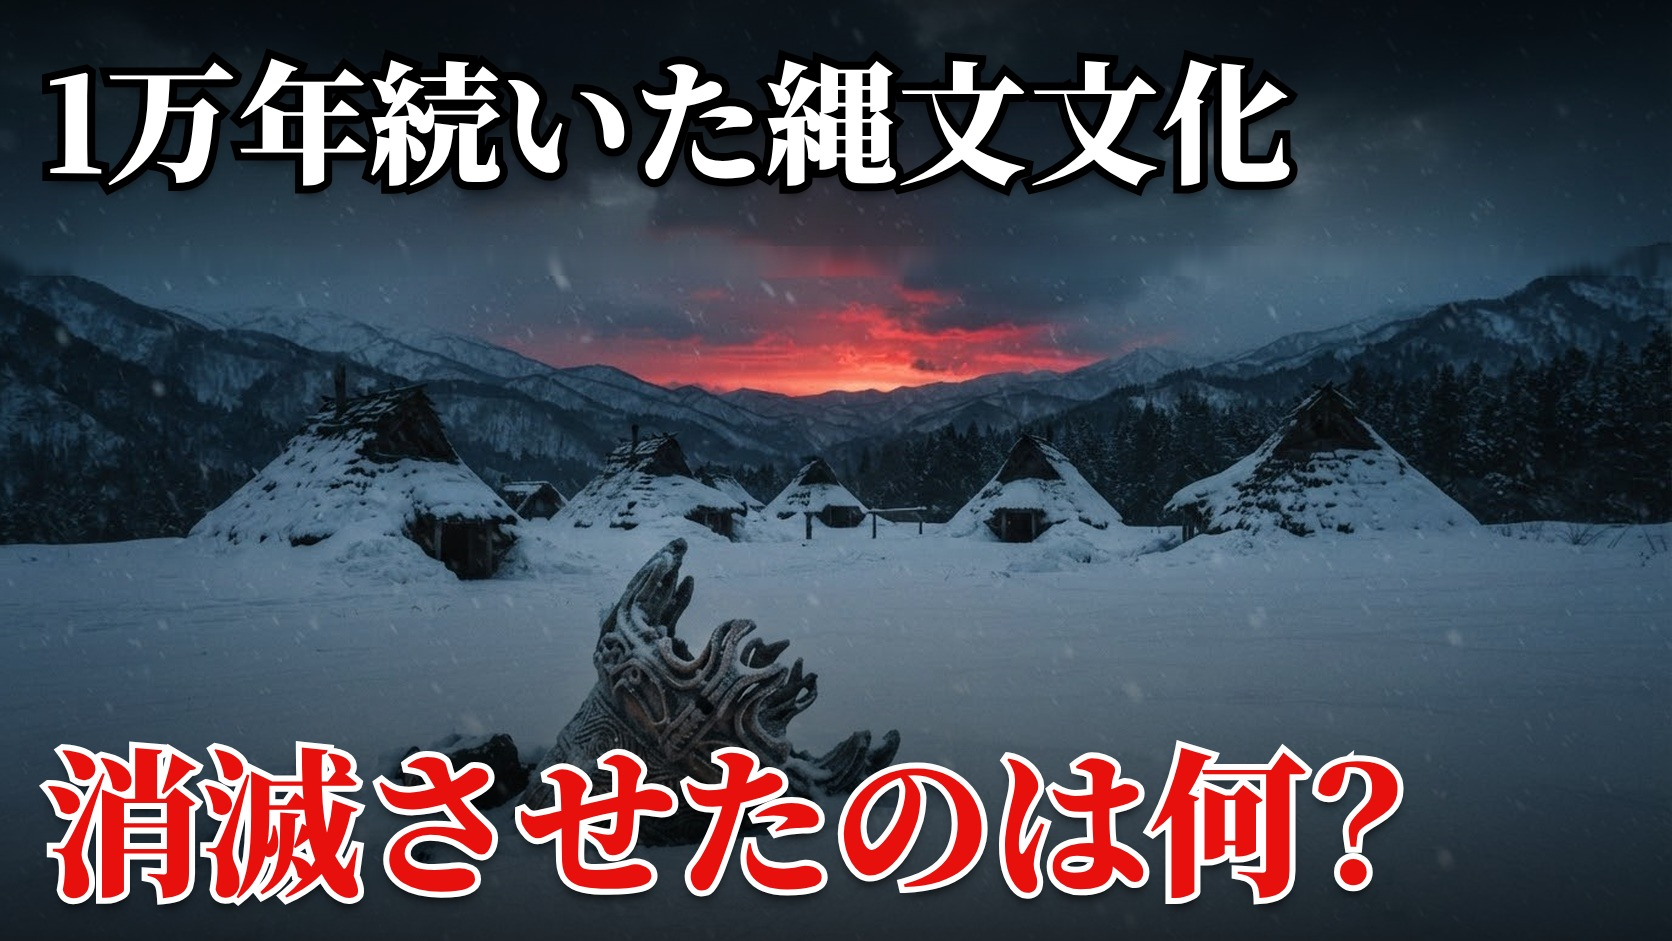
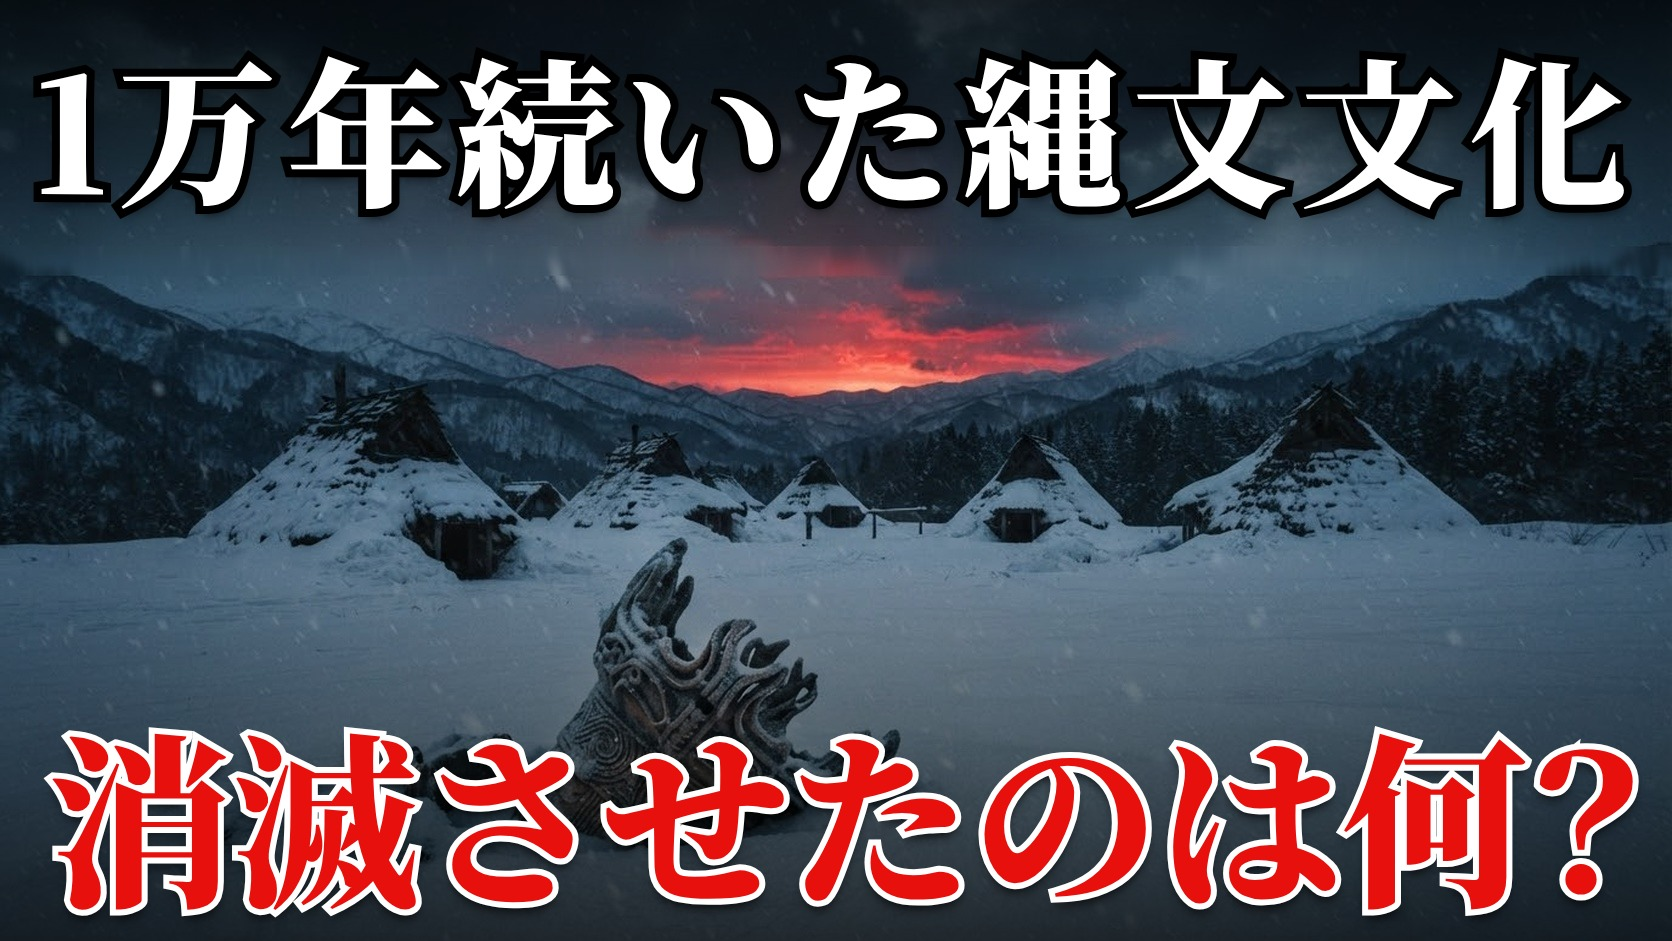
縄文人: サムネの文字を左右いっぱい／中央揃えにし、下段を上段より大きく
Claude-Session: https://claude.ai/code/session_01BYpZQXYNUwHTnyuBiz7NfV

Changed region(s): [[0.0311, 0.7705, 0.9952, 0.9862], [0.0, 0.0308, 0.9952, 0.2465]]

diff --git a/habi-jomon/サムネ/jgen.py b/habi-jomon/サムネ/jgen.py
@@ -1,28 +1,57 @@
+# 縄文サムネ：下段を左右いっぱい、上段は下段より少し小さく（広げられる範囲で字間を広げ、無理なら中央）
 HEAD='''<html><head><style>
 @font-face{font-family:N;src:url(NotoSerifJP-Black.ttf)}
 @font-face{font-family:G;src:url(NotoSansJP-Black.ttf)}
 body{margin:0;width:1672px;height:941px;position:relative;overflow:hidden;background:#000}
 .bg{position:absolute;inset:0;background:url(BG) center/cover}
 .top{position:absolute;left:0;right:0;top:0;height:300px;background:linear-gradient(rgba(0,0,0,.65),rgba(0,0,0,0))}
-.bot{position:absolute;left:0;right:0;bottom:0;height:420px;background:linear-gradient(rgba(0,0,0,0),rgba(0,0,0,.72))}
-.t{position:absolute;left:44px;right:0;text-align:left;white-space:nowrap;line-height:1;font-family:N}
+.bot{position:absolute;left:0;right:0;bottom:0;height:440px;background:linear-gradient(rgba(0,0,0,0),rgba(0,0,0,.72))}
+.L{position:absolute;left:0;width:1672px;text-align:center;white-space:nowrap;line-height:1;font-family:N}
+.L span.x{position:relative}
 .b{color:#000;-webkit-text-stroke:16px #000;text-shadow:0 8px 12px rgba(0,0,0,.8)}
 .w{color:#fff}.r{color:#e8100c}
 .rb{color:#fff;-webkit-text-stroke:12px #fff;text-shadow:0 8px 12px rgba(0,0,0,.9),0 0 3px #000}
 .q{margin-left:-.18em;margin-right:-.3em}
-.band{position:absolute;left:0;right:0;top:40px;height:170px;background:linear-gradient(#e0120e,#a8070a);box-shadow:0 8px 18px rgba(0,0,0,.6);border-top:5px solid #fff;border-bottom:5px solid #fff}
-.tag{position:absolute;left:44px;top:62px;height:126px;padding:0 26px;background:#fff;color:#d30c0a;font:900 104px/126px G;letter-spacing:.02em}
-.gw{position:absolute;left:334px;top:62px;font:900 118px/126px G;color:#fff;white-space:nowrap;text-shadow:0 5px 8px rgba(0,0,0,.55)}
+.band{position:absolute;left:0;right:0;height:190px;background:linear-gradient(#e0120e,#a8070a);box-shadow:0 8px 18px rgba(0,0,0,.6);border-top:5px solid #fff;border-bottom:5px solid #fff}
+.news{position:absolute;left:0;width:1672px;white-space:nowrap;line-height:1;font-family:G;font-weight:900;display:flex;justify-content:center;align-items:center}
+.tag{background:#fff;color:#d30c0a;padding:.1em .22em;margin-right:.3em}
+.gw{color:#fff;text-shadow:0 5px 8px rgba(0,0,0,.55)}
 </style></head><body><div class=bg></div><div class=top></div><div class=bot></div>
 '''
-def line(txt,top,size,kind):
-    if kind=='w': return f'<div class="t b" style="top:{top}px;font-size:{size}px">{txt}</div>\n<div class="t w" style="top:{top}px;font-size:{size}px">{txt}</div>\n'
-    return f'<div class="t rb" style="top:{top}px;font-size:{size}px">{txt}</div>\n<div class="t r" style="top:{top}px;font-size:{size}px">{txt}</div>\n'
+FIT='''<script>
+const M=44, W=1672-2*M, MAXLS=0.14;
+function size(el,px){el.querySelectorAll('.L').forEach(e=>e.style.fontSize=px+'px')}
+function width(el){return el.querySelector('.L:last-child').scrollWidth||0}
+function natural(g,px){size(g,px);g.querySelectorAll('.L').forEach(e=>e.style.letterSpacing='0');const s=g.querySelector('.L:last-child span.x');return s.getBoundingClientRect().width}
+function fill(g,px){ // 字間を広げて左右いっぱいに。広がりすぎるなら中央
+  const w=natural(g,px), n=g.dataset.n, ls=(W-w)/(n-1)/px;
+  if(ls>0&&ls<=MAXLS) g.querySelectorAll('.L').forEach(e=>e.style.letterSpacing=ls+'em');
+}
+document.fonts.ready.then(()=>{
+  const bot=document.getElementById('bot'), w0=natural(bot,100), B=Math.floor(100*W/w0); natural(bot,B);
+  bot.querySelectorAll('.L').forEach(e=>e.style.top=(941-36-B)+'px');
+  const top=document.getElementById('top');
+  if(top){const T=Math.round(B*0.86); fill(top,T); top.querySelectorAll('.L').forEach(e=>e.style.top='46px');}
+  const mid=document.getElementById('mid');
+  if(mid){const P=Math.round(B*0.68); natural(mid,P); mid.querySelectorAll('.L').forEach(e=>e.style.top=(941-36-B-26-P)+'px');}
+  const nw=document.getElementById('news');
+  if(nw){ // 速報帯：下段より少し小さく、帯いっぱい
+    let px=Math.round(B*0.86); nw.style.fontSize=px+'px';
+    const r=nw.scrollWidth; const inner=[...nw.children].reduce((a,c)=>a+c.getBoundingClientRect().width,0)+0.3*px;
+    const ls=(W-inner)/(nw.dataset.n-1)/px; if(ls>0&&ls<=MAXLS) nw.querySelector('.gw').style.letterSpacing=ls+'em';
+    document.querySelector('.band').style.top='34px'; nw.style.top=(34+5+(180-px*1.2)/2)+'px'; nw.style.height=(px*1.2)+'px';
+  }
+  document.body.dataset.done=1;
+});
+</script>'''
+def grp(id,txt,kind,n):
+    a,b=('b','w') if kind=='w' else ('rb','r')
+    return f'<div id={id} data-n={n}><div class="L {a}"><span class=x>{txt}</span></div><div class="L {b}"><span class=x>{txt}</span></div></div>\n'
 Q='<span class=q>？</span>'
 pages={
- 'j1':('g1.jpg', line('1万年続いた縄文文化',50,132,'w')+line('消滅させたのは何'+Q,736,158,'r')),
- 'j2':('g2.jpg', line('平和主義の縄文人',50,132,'w')+line('1万年もの間',598,104,'w')+line('なぜ争わなかった'+Q,752,134,'r')),
- 'j3':('g3.jpg', '<div class=band></div><div class=tag>速報</div><div class=gw>縄文人のDNA</div>\n'+line('遺伝子が語る',598,104,'w')+line('1万年も生き延びた理由',752,134,'r')),
+ 'j1':('g1.jpg', grp('top','1万年続いた縄文文化','w',9)+grp('bot','消滅させたのは何'+Q,'r',9)),
+ 'j2':('g2.jpg', grp('top','平和主義の縄文人','w',8)+grp('mid','1万年もの間','w',6)+grp('bot','なぜ争わなかった'+Q,'r',9)),
+ 'j3':('g3.jpg', '<div class=band></div><div id=news class=news data-n=7><span class=tag>速報</span><span class=gw>縄文人のDNA</span></div>\n'+grp('mid','遺伝子が語る','w',6)+grp('bot','1万年も生き延びた理由','r',11)),
 }
 for k,(bg,body) in pages.items():
-    open(k+'.html','w').write(HEAD.replace('BG',bg)+body+'</body></html>')
+    open(k+'.html','w').write(HEAD.replace('BG',bg)+body+FIT+'</body></html>')

diff --git a/habi-jomon/サムネ案.md b/habi-jomon/サムネ案.md
@@ -60,3 +60,4 @@
 - 文字は卑弥呼の鏡と同じ：Noto Serif JP Black、左端そろえ、白＋黒フチ／赤＋白フチ、？は全角を詰める。③の速報帯だけ Noto Sans JP Black
 - 概要欄のサムネイルのクレジットも写真の出典に変更
 - 2026-11-28 更新：背景を Gemini の画像に差し替え（本人の希望）。写真版は サムネ/写真版-*.jpg に残す。①③は生成画像の上部に継ぎ目があったので、明るさを合わせてぼかして消した。概要欄のサムネのクレジットは「画像生成AI（Google Gemini）で制作」
+- 2026-11-28 文字組み変更（本人の希望）：下段（赤）を左右いっぱいに広げ、上段は下段の0.86倍。上段は字間を広げて左右いっぱいにし、広げすぎになる（字間0.14em超）ときは中央揃え。中段は下段の0.68倍で中央。→ ①上段は左右いっぱい、②上段・③速報帯は中央
